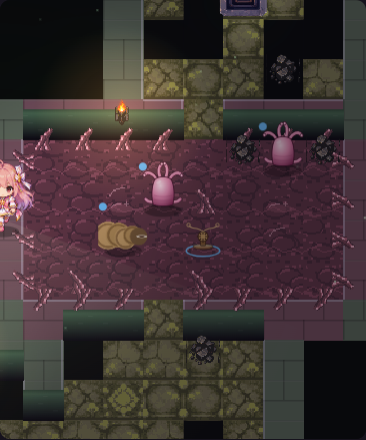
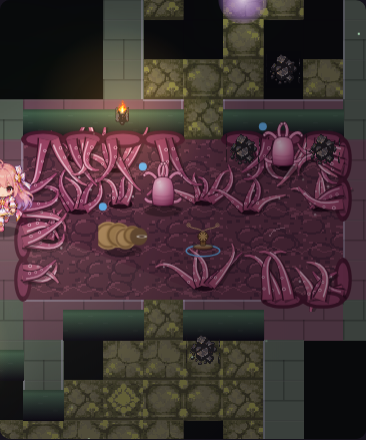
触手の部屋を手続きで描き直す：太くうねる触手（吸盤・艶・滴）、壁の付け根の肉、床の穴の束。fill で満ち、入室で速く獲物へ寄る。部屋ごとの別キャンバスで秒15回だけ描き直す
Claude-Session: https://claude.ai/code/session_01LS9hnUyHtbxB1JW2n57hjT

diff --git a/newgame/js/render.js b/newgame/js/render.js
@@ -36,7 +36,111 @@ var G = (typeof G !== "undefined") ? G : {};
   }
   // floor/wall判定と可視範囲を受け取る。同じ描画を素材一覧でも使う。
   // activeとfillは読むだけ。配置には座標ハッシュだけを使いG.Uに触れない。
-  function roomDecor(ctx, r, skin, t, S, X, Y, bounds, tile, prefix = "") {
+  /* 触手を一本、手続きで描く。根元(bx,by)から角度 a の向きへ len（マス）。
+   * 体は先へ細る帯。うねりは時間と位相で、curl で先が巻き、lean で先が寄る（獲物の方へ）。
+   * 縁は暗く、背に艶、腹に吸盤。 */
+  const TCS = [
+    { rim: "#3a1424", body: "#9c4466", body2: "#c8648a", hi: "rgba(255,214,232,0.75)", sucker: "#f2b6cf", suckerIn: "#7a2c4a", wet: "rgba(255,240,248,0.55)" },
+    { rim: "#2e0f1e", body: "#86385a", body2: "#b0507a", hi: "rgba(255,200,222,0.6)", sucker: "#e4a0bc", suckerIn: "#6a2440", wet: "rgba(255,240,248,0.5)" },
+    { rim: "#40182c", body: "#a8506e", body2: "#d87a98", hi: "rgba(255,226,238,0.8)", sucker: "#f6c4d6", suckerIn: "#86344f", wet: "rgba(255,240,248,0.6)" },
+  ];
+  let TC = TCS[0];
+  const stats = { tentacles: 0 };              // 検査用：描いた触手の本数（tools/rooms.js が数える）
+  function tentacle(ctx, bx, by, a, len, wd, t, ph, curl, sp, lean) {
+    TC = TCS[Math.floor(ph * 10) % 3]; stats.tentacles++;
+    const N = 11, L = [], R = [], C = [];
+    let x = bx, y = by, ang = a;
+    for (let i = 0; i <= N; i++) {
+      const s = i / N;
+      const wig = Math.sin(t * sp * 2.1 + ph + s * 4.2) * 0.55 * s + Math.sin(t * sp * 1.3 + ph * 1.7 + s * 2.3) * 0.25 * s;
+      const dir = ang + wig + curl * s * s * 2.2 + (lean || 0) * s;
+      const w = wd * (1 - s * 0.86) * (1 + 0.08 * Math.sin(t * sp * 3 + ph + s * 9));
+      C.push([x, y, dir, w]);
+      const nx = Math.cos(dir + Math.PI / 2), ny = Math.sin(dir + Math.PI / 2);
+      L.push([x + nx * w, y + ny * w]); R.push([x - nx * w, y - ny * w]);
+      x += Math.cos(dir) * len / N; y += Math.sin(dir) * len / N;
+    }
+    const path = (o) => { ctx.beginPath(); ctx.moveTo(L[0][0], L[0][1]); for (const p of L) ctx.lineTo(p[0] + o, p[1] + o); const tip = C[N]; ctx.lineTo(tip[0], tip[1]); for (let i = N; i >= 0; i--) ctx.lineTo(R[i][0] + o, R[i][1] + o); ctx.closePath(); };
+    ctx.fillStyle = "rgba(0,0,0,0.28)"; path(wd * 0.35); ctx.fill();           // 影
+    ctx.fillStyle = TC.rim; path(0); ctx.fill();
+    ctx.save(); ctx.translate(0, 0);
+    const g = ctx.createLinearGradient(bx, by, C[N][0], C[N][1]); g.addColorStop(0, TC.body); g.addColorStop(1, TC.body2);
+    ctx.fillStyle = g; ctx.beginPath();                                          // 体（縁より一回り内側）
+    ctx.moveTo(C[0][0], C[0][1]);
+    for (let i = 0; i <= N; i++) { const [cx, cy, d, w] = C[i]; ctx.lineTo(cx + Math.cos(d + Math.PI / 2) * w * 0.78, cy + Math.sin(d + Math.PI / 2) * w * 0.78); }
+    for (let i = N; i >= 0; i--) { const [cx, cy, d, w] = C[i]; ctx.lineTo(cx - Math.cos(d + Math.PI / 2) * w * 0.78, cy - Math.sin(d + Math.PI / 2) * w * 0.78); }
+    ctx.closePath(); ctx.fill(); ctx.restore();
+    ctx.strokeStyle = TC.hi; ctx.lineWidth = Math.max(1, wd * 0.22); ctx.lineCap = "round"; ctx.beginPath();   // 背の艶
+    for (let i = 1; i < N - 1; i++) { const [cx, cy, d, w] = C[i]; const px = cx + Math.cos(d + Math.PI / 2) * w * 0.42, py = cy + Math.sin(d + Math.PI / 2) * w * 0.42; i === 1 ? ctx.moveTo(px, py) : ctx.lineTo(px, py); }
+    ctx.stroke();
+    for (let i = 2; i < N - 2; i += 2) {                                          // 腹の吸盤
+      const [cx, cy, d, w] = C[i], px = cx - Math.cos(d + Math.PI / 2) * w * 0.5, py = cy - Math.sin(d + Math.PI / 2) * w * 0.5, r = Math.max(0.8, w * 0.3);
+      ctx.fillStyle = TC.sucker; ctx.beginPath(); ctx.arc(px, py, r, 0, 7); ctx.fill();
+      ctx.fillStyle = TC.suckerIn; ctx.beginPath(); ctx.arc(px, py, r * 0.5, 0, 7); ctx.fill();
+    }
+    const [tx, ty] = C[N - 2];                                                    // 先の滴
+    const drip = (t * sp * 0.7 + ph) % 3;
+    if (drip < 1) { ctx.fillStyle = TC.wet; ctx.beginPath(); ctx.arc(tx, ty + drip * wd * 2.2, Math.max(1, wd * 0.18), 0, 7); ctx.fill(); }
+  }
+  // 触手の部屋：壁から生え、床の穴から束で伸びる。満ちるほど（fill）数も長さも増え、踏み込むと（active）速く、獲物の方へ寄る
+  // 本番の画面では、部屋ごとの別キャンバスに秒15回だけ描き直して貼る（毎フレーム全部を描くと、スマホで重い）
+  function tentacleRoomCached(ctx, r, t, S, X, Y, bounds, tile, target) {
+    const pad = 1.6, cw = Math.ceil((r.w + pad * 2) * S), ch = Math.ceil((r.h + pad * 2) * S);
+    const c = r._tc || (r._tc = { cv: typeof document !== "undefined" ? document.createElement("canvas") : null, t: -9, S: 0, key: "" });
+    if (!c.cv) return tentacleRoom(ctx, r, t, S, X, Y, bounds, tile, target);
+    const key = (r.active ? 1 : 0) + ":" + (r.fill || 0);
+    if (c.S !== S || c.key !== key || t - c.t > 1 / 15 || t < c.t) {
+      if (c.cv.width !== cw || c.cv.height !== ch) { c.cv.width = cw; c.cv.height = ch; }
+      const cx = c.cv.getContext("2d"); cx.clearRect(0, 0, cw, ch); cx.imageSmoothingEnabled = false;
+      const Xl = x => (x - r.x + pad) * S, Yl = y => (y - r.y + pad) * S;
+      tentacleRoom(cx, r, t, S, Xl, Yl, [r.x - 1, r.y - 1, r.x + r.w + 1, r.y + r.h + 1], tile, target);
+      c.S = S; c.t = t; c.key = key;
+    }
+    ctx.drawImage(c.cv, X(r.x - pad), Y(r.y - pad));
+  }
+  function tentacleRoom(ctx, r, t, S, X, Y, bounds, tile, target0) {
+    const target = target0 && { x: X(target0.x) / S, y: Y(target0.y) / S };
+    const fill = Number.isFinite(r.fill) ? Math.max(0, Math.min(1, r.fill)) : 0;
+    const sp = r.active ? 1.9 : 0.8, reach = (r.active ? 1.25 : 1) * (1 + fill * 0.9);
+    const [x0, y0, x1, y1] = bounds;
+    const leanTo = (bx, by, a) => { if (!r.active || !target) return 0; const want = Math.atan2(target.y - by, target.x - bx); let d = want - a; while (d > Math.PI) d -= Math.PI * 2; while (d < -Math.PI) d += Math.PI * 2; return Math.max(-0.9, Math.min(0.9, d)) * 0.7; };
+    ctx.save(); ctx.beginPath(); ctx.rect(X(r.x) - S * 0.3, Y(r.y) - S * 0.3, r.w * S + S * 0.6, r.h * S + S * 0.6); ctx.clip();
+    // 床の穴と、そこから伸びる束
+    for (let y = Math.max(y0, r.y); y < Math.min(y1, r.y + r.h); y++) for (let x = Math.max(x0, r.x); x < Math.min(x1, r.x + r.w); x++) {
+      if (tile(x, y) !== 0) continue;
+      const hv = hash(x, y, 91);
+      if (hv % 1000 / 1000 >= 0.3 + fill * 0.55 + (r.active ? 0.08 : 0)) continue;
+      const hx = X(x + 0.3 + ((hv >>> 6) % 40) / 100), hy = Y(y + 0.45 + ((hv >>> 11) % 40) / 100);
+      ctx.fillStyle = "rgba(20,4,12,0.85)"; ctx.beginPath(); ctx.ellipse(hx, hy, S * 0.3, S * 0.13, 0, 0, 7); ctx.fill();
+      ctx.strokeStyle = "rgba(200,90,130,0.6)"; ctx.lineWidth = 1.2; ctx.beginPath(); ctx.ellipse(hx, hy, S * 0.31, S * 0.14, 0, Math.PI, 0); ctx.stroke();
+      const n = 3 + (hv >>> 15) % 3 + Math.round(fill * 3);
+      for (let k = 0; k < n; k++) {
+        const ph = (hv >>> (k * 3)) % 628 / 100, a = -Math.PI / 2 + (k - (n - 1) / 2) * 0.42 + Math.sin(ph) * 0.2;
+        const bx = hx + (k - (n - 1) / 2) * S * 0.09, by = hy;
+        tentacle(ctx, bx, by, a, S * (0.7 + ((hv >>> (k + 4)) % 60) / 100) * reach, S * 0.13, t, ph, (k % 2 ? 1 : -1) * 0.5, sp, leanTo(bx / S, by / S, a));
+      }
+    }
+    // 壁から生える触手
+    for (let y = Math.max(y0, r.y - 1); y < Math.min(y1, r.y + r.h + 1); y++) for (let x = Math.max(x0, r.x - 1); x < Math.min(x1, r.x + r.w + 1); x++) {
+      if (tile(x, y) !== 1) continue;
+      const side = [[0, 1], [0, -1], [1, 0], [-1, 0]].find(([dx, dy]) => insideRoom(r, x + dx, y + dy) && tile(x + dx, y + dy) !== 1);
+      if (!side) continue;
+      const hv = hash(x, y, 73);
+      if (hv % 100 >= 75 + fill * 25) continue;
+      const [dx, dy] = side, a = Math.atan2(dy, dx), n = 2 + (hv >>> 9) % 2 + Math.round(fill * 2);
+      for (let k = 0; k < n; k++) {
+        const off = ((hv >>> (k * 4)) % 80) / 100 - 0.4, ph = (hv >>> (k * 5 + 2)) % 628 / 100;
+        const bx = X(x + 0.5 + dx * 0.5 + (dy ? off : 0)), by = Y(y + 0.5 + dy * 0.5 + (dx ? off : 0));
+        if (k === 0) { const mx = X(x + 0.5 + dx * 0.5), my = Y(y + 0.5 + dy * 0.5); ctx.fillStyle = "#4a1a2e"; ctx.beginPath(); ctx.ellipse(mx, my, S * (dy ? 0.55 : 0.22), S * (dx ? 0.55 : 0.22), 0, 0, 7); ctx.fill(); ctx.fillStyle = "rgba(200,96,140,0.5)"; ctx.beginPath(); ctx.ellipse(mx, my, S * (dy ? 0.42 : 0.14), S * (dx ? 0.42 : 0.14), 0, 0, 7); ctx.fill(); }   // 壁の付け根の肉
+        tentacle(ctx, bx, by, a + Math.sin(ph) * 0.35, S * (0.9 + ((hv >>> (k + 7)) % 70) / 100) * reach, S * 0.17, t, ph, (k % 2 ? 1 : -1) * 0.7, sp, leanTo(bx / S, by / S, a));
+      }
+    }
+    ctx.globalAlpha = 0.05 + fill * 0.05 + (r.active ? 0.03 : 0);
+    ctx.fillStyle = "#c86a92"; ctx.fillRect(X(r.x), Y(r.y), r.w * S, r.h * S);
+    ctx.restore();
+  }
+  function roomDecor(ctx, r, skin, t, S, X, Y, bounds, tile, prefix = "", target, cache) {
+    if (skin.proc === "tentacle") return (cache ? tentacleRoomCached : tentacleRoom)(ctx, r, t, S, X, Y, bounds, tile, target);
     const im = img(prefix + skin.deco); if (!ok(im)) return;
     const fill = Number.isFinite(r.fill) ? Math.max(0, Math.min(1, r.fill)) : 0;
     const speed = skin.speed * (r.active ? 1.9 : 1), size = 1 + fill * 0.35 + (r.active ? 0.12 : 0);
@@ -181,7 +285,7 @@ var G = (typeof G !== "undefined") ? G : {};
     }
     for (const room of rooms) {
       const skin = roomSkin(room); if (!skin) continue;
-      roomDecor(ctx, room, skin, w.t, S, X, Y, [x0, y0, x1, y1], (x, y) => x < 0 || y < 0 || x >= map.W || y >= map.H ? 1 : map.t[y * map.W + x]);
+      roomDecor(ctx, room, skin, w.t, S, X, Y, [x0, y0, x1, y1], (x, y) => x < 0 || y < 0 || x >= map.W || y >= map.H ? 1 : map.t[y * map.W + x], "", { x: w.run.h.x, y: w.run.h.y }, true);
     }
     // 柱
     for (let ty = y0; ty < y1; ty++) for (let tx = x0; tx < x1; tx++) {
@@ -541,5 +645,5 @@ var G = (typeof G !== "undefined") ? G : {};
   }
   function roundRect(ctx, x, y, w, h, r) { ctx.beginPath(); ctx.moveTo(x + r, y); ctx.arcTo(x + w, y, x + w, y + h, r); ctx.arcTo(x + w, y + h, x, y + h, r); ctx.arcTo(x, y + h, x, y, r); ctx.arcTo(x, y, x + w, y, r); ctx.closePath(); }
 
-  G.Render = { draw, preload, img, TYPE_COLOR, roomPreview };
+  G.Render = { draw, preload, img, TYPE_COLOR, roomPreview, stats };
 })();

diff --git a/newgame/tools/rooms.js b/newgame/tools/rooms.js
@@ -48,10 +48,10 @@ const fs = require('node:fs'), path = require('node:path'), assert = require('no
     if(states.skin && !process.env.RENDER) {
       const visual=await p.evaluate(()=>{
         const d=G.debug.dive,ctx=document.querySelector('#cv').getContext('2d'),room=roomFixture;
-        const counts=[],original=ctx.drawImage;let count=0;
-        ctx.drawImage=function(im,...args){if(im.src&&im.src.includes('room_tentacle_deco'))count++;return original.call(this,im,...args);};
-        for(const fill of [0,0.5,1]){room.fill=fill;count=0;G.Render.draw(ctx,d.w,d.cam,d);counts.push(count);if(room.fill!==fill)throw Error('fill mutated');}
-        count=0;G.Render.draw(ctx,d.w,{x:-100,y:-100,scale:40},d);const offscreen=count;ctx.drawImage=original;
+        // 触手の部屋は手続きで描くので、描いた触手の本数（G.Render.stats.tentacles）で数える
+        const counts=[],st=G.Render.stats;
+        for(const fill of [0,0.5,1]){room.fill=fill;st.tentacles=0;G.Render.draw(ctx,d.w,d.cam,d);counts.push(st.tentacles);if(room.fill!==fill)throw Error('fill mutated');}
+        st.tentacles=0;G.Render.draw(ctx,d.w,{x:-100,y:-100,scale:40},d);const offscreen=st.tentacles;
         delete room.fill;return {counts,offscreen};
       });
       assert.ok(visual.counts[2]>visual.counts[0]); assert.equal(visual.offscreen,0);

diff --git a/newgame/js/data.js b/newgame/js/data.js
@@ -307,7 +307,7 @@ var G = (typeof G !== "undefined") ? G : {};
    */
   // 床64px×4列×2行。飾り64px×4列（壁・大・小・光）。描画専用。
   G.ROOM_SKINS = {
-    tentacle: { floor: "assets/env/room_tentacle.png", deco: "assets/env/room_tentacle_deco.png", wall: 0, scatter: [1, 2, 3], density: 0.22, wallTop: "#76525f", overlay: "rgba(155,66,95,0.12)", fog: "#c889aa", speed: 0.8 },
+    tentacle: { floor: "assets/env/room_tentacle.png", deco: "assets/env/room_tentacle_deco.png", proc: "tentacle", wall: 0, scatter: [1, 2, 3], density: 0.22, wallTop: "#76525f", overlay: "rgba(155,66,95,0.12)", fog: "#c889aa", speed: 0.8 },
     slime: { floor: "assets/env/room_slime.png", deco: "assets/env/room_slime_deco.png", wall: 0, scatter: [1, 2, 3], density: 0.26, wallTop: "#796786", overlay: "rgba(168,115,186,0.12)", fog: "#b29bcf", speed: 0.6 },
     flesh: { floor: "assets/env/room_flesh.png", deco: "assets/env/room_flesh_deco.png", wall: 0, scatter: [1, 2, 3], density: 0.23, wallTop: "#875c68", overlay: "rgba(182,86,111,0.12)", fog: "#d395ac", speed: 0.7 },
     worm: { floor: "assets/env/room_worm.png", deco: "assets/env/room_worm_deco.png", wall: 0, scatter: [1, 2, 3], density: 0.21, wallTop: "#685860", overlay: "rgba(126,90,106,0.08)", fog: "#b993a7", speed: 0.5 },

diff --git a/newgame/README.md b/newgame/README.md
@@ -292,6 +292,14 @@ Game2 の AILMENTS／TRAITS と Game4 の状態異常を参考にした。三段
 - 堂々巡り：たどり着けない手水・湯は12秒であきらめる。戦いの最中に30秒誰にも当てられなければ、周りを置いて階段へ。
 - **数値**（オート指揮なし、20回×8組×2セット＝320回）：踏破 66.9%／68.1%、帰還 20.0%／18.1%、敗北 8.8%／8.8%。罠は20回の潜行で124〜147個壊し、231〜319回作動。
 
+### 10回目：触手の部屋の描き直し
+- 触手のスキン（`G.ROOM_SKINS.tentacle.proc = "tentacle"`）は、絵を貼るのをやめて手続きで描く（`render.js` の `tentacle`・`tentacleRoom`）。
+  一本ごとに先へ細る体・暗い縁・背の艶・腹の吸盤・先の滴。時間でうねり、先が巻く。三色の濃淡をまぜる。
+  壁から生える触手（付け根に肉の盛り上がり）と、床の穴から伸びる束。`room.fill`（0〜1）で数と長さが増え、踏み込むと（`active`）速くうねり、ひかりの方へ先が寄る。
+- 重さ対策：本番の画面では部屋ごとの別キャンバスに秒15回だけ描き直して貼る（`tentacleRoomCached`）。描き直し1回は 7×5 マスで fill 0／0.5／1 が中央値 2.3／3.9／6.0ms。
+  `tools/rooms.js` の検査は、描いた触手の本数（`G.Render.stats.tentacles`）で数える。
+- 部屋が満ちていく仕組み（`room.fill` を時間で上げる処理）はまだ入れていない。
+
 ### セーブ
 localStorage、版 `v: 2`。古い版は読まずに捨てる。後から足した項目（性癖・回数・ワルドー・持ち越し・新ダンジョンのデッキ・心のヒビ・数取り・学習・期待・レベル・技・手帳）は `G.Game.upgradeSave` が補うので、今のセーブのまま遊べる。
 
